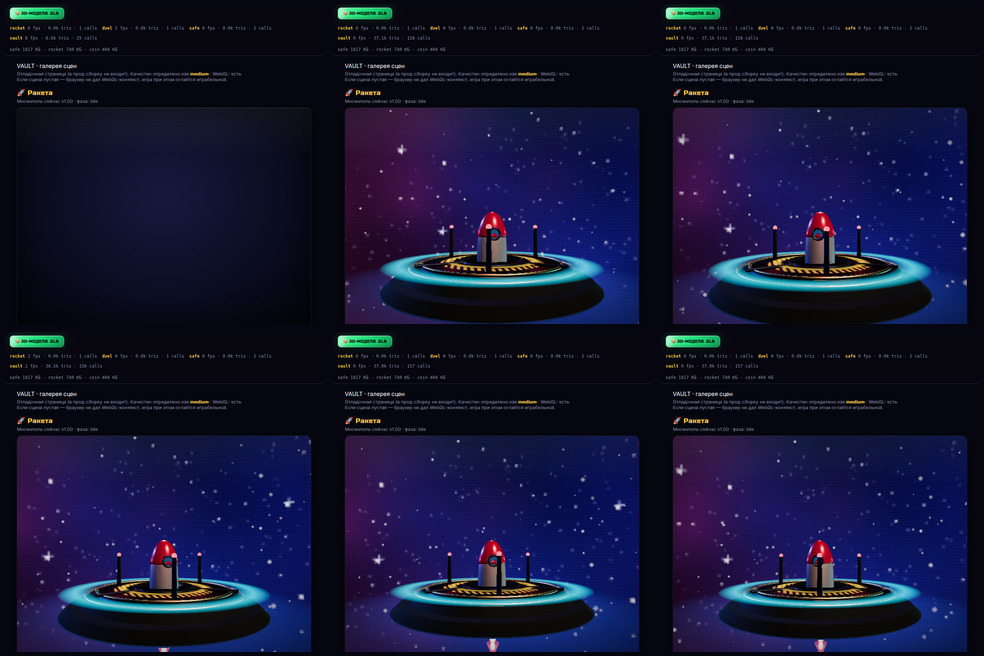
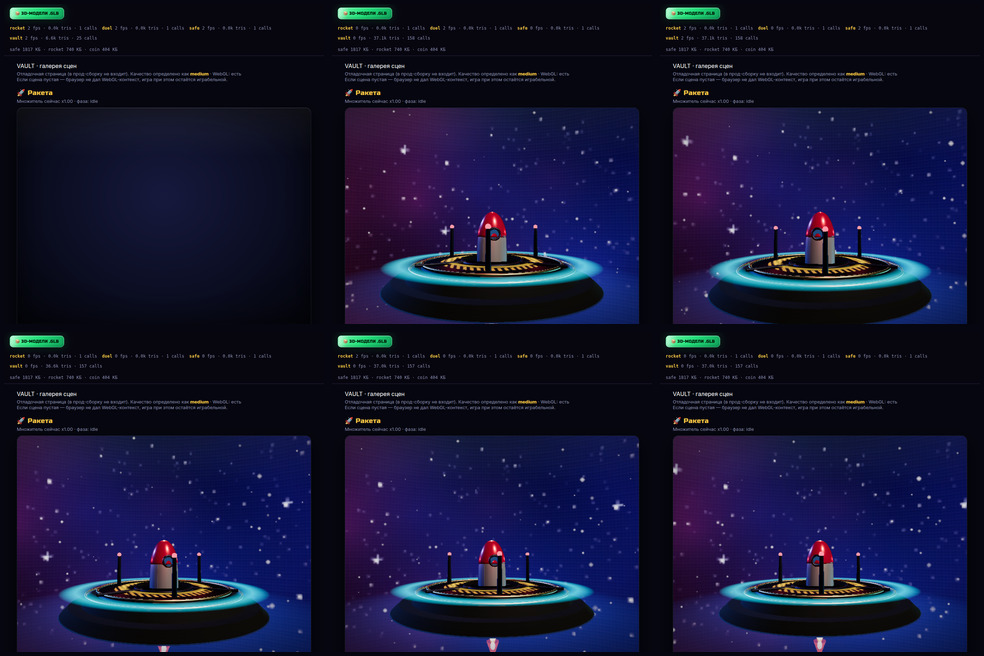
docs: D-122 — «нужен ровно один активный Coordinator» — причина найдена (не эмодзи) (#13)
* docs: D-122 — причина «нужен активный Coordinator»: статус роли, не эмодзи

* chore(eyes): сводный кадр сцен [skip ci]

---------

diff --git a/docs/DECISIONS.md b/docs/DECISIONS.md
@@ -5158,3 +5158,49 @@ Vercel с Supabase?
 
 **Границы.** Правка моделей в Blender (primitive-группы, число текстур) — не
 сделана: это отдельная задача для исполнителя с bpy.
+
+## D-122. «Нужен ровно один активный Coordinator» — это статус роли, а не эмодзи
+
+**Дата:** 2026-11-12.
+
+**Вопрос.** Ошибка проверки схемы «Нужен ровно один активный Coordinator» — из-за
+эмодзи в названиях ролей? Убрать эмодзи?
+
+**Ответ: нет, эмодзи не влияют.** Проверка (`tools/script-cat/src/08-projects-ui.js:163`)
+сравнивает два поля-select, а не название роли:
+
+```js
+const active = mapped.filter((role) => role.status === "Активна");
+if (active.filter((role) => role.fn === "Coordinator").length !== 1)
+  throw new Error("Нужен ровно один активный Coordinator.");
+```
+
+`fn` = `sel(Функция)`, `status` = `sel(Статус)`; `sel` возвращает имя варианта как
+есть. Заголовок роли (`Роль`, тип title) в сравнении не участвует — эмодзи в нём
+физически не могут сломать проверку.
+
+**Что на самом деле (проверено в базе 12.11.2026).** Единственная строка со
+`Статус = Активна` — **Warden** (Reviewer). Все остальные, включая **Coordinator**
+(`4166f0cf-5705-8139-af4d-f9eb36ca3981`, URL `…/agent/01a1d0c9-95d4-703f-9e35-3bb238b87d9d`),
+стоят в `Статус = Ждёт`. Это не сбой: по D-008/D-052 роли нарочно ждут своей фазы,
+а доступы (`Статус`, `Agent URL`, `Agent Admin`) выдаёт **Мастер**. В базе Vault нет
+ни одной строки с `Функция = Coordinator` в корзине — дублей нет, «оживить» нечего.
+
+**Решение.** Эмодзи не трогаем: они в title-поле и на проверку не влияют.
+Ошибка лечится сменой `Статус` у строки Coordinator на **Активна** — это делает
+Мастер, не агент (право доступа).
+
+**Вторая проверка ждёт следом.** Сразу после статуса сработает
+`У роли «…» Agent URL должен быть страницей агента на домене этой вкладки`
+(`url.origin !== location.origin`). Все `Agent URL` в базе — вида
+`https://arena.ai/agent/<id>`, то есть проходят **только если вкладка открыта на
+`arena.ai`**. На localhost, 127.0.0.1 или зеркале проверка откажет. Это ограничение
+самого правила, а не данных.
+
+**Отклонено.** (1) Убирать эмодзи из названий ролей — не причина ошибки, а потеря
+читаемости хуба. (2) Ставить `Статус = Активна` агентом — это право Мастера.
+(3) Считать ошибку ложной — проверка верна, она честно сообщает «цикл не на чем
+запускать».
+
+**Пересмотр.** Если появится требование запускать вкладку на домене, отличном от
+`arena.ai` — тогда правило `location.origin` надо менять отдельно, с ADR.

diff --git a/docs/agents/notion.md b/docs/agents/notion.md
@@ -40,6 +40,12 @@
 
 ## Статусы
 - Карточка: Draft, Ready, Running, Submitted, Accepted, Rework.
+- Роль: **Активна**, **Ждёт**, **Отключена**. «Ждёт» — не ошибка и не «сломано»:
+  роль заведена, но доступы (`Статус`, `Agent URL`, `Agent Admin`) Мастер ещё не выдал.
+  Проверка схемы проекта требует **ровно один активный Coordinator**, активного
+  Reviewer и хотя бы одного активного Executor/Auditor — поэтому проект со всеми
+  ролями в «Ждёт» не включится. Эмодзи в названиях ролей на проверку не влияют:
+  сравниваются `Функция` и `Статус` (варианты select), а не `Роль` (title).
 - Вопрос: Ждёт, Решено, Принят дефолт.
 - Миссия: Активна, Возвращена, Завершена.
 
